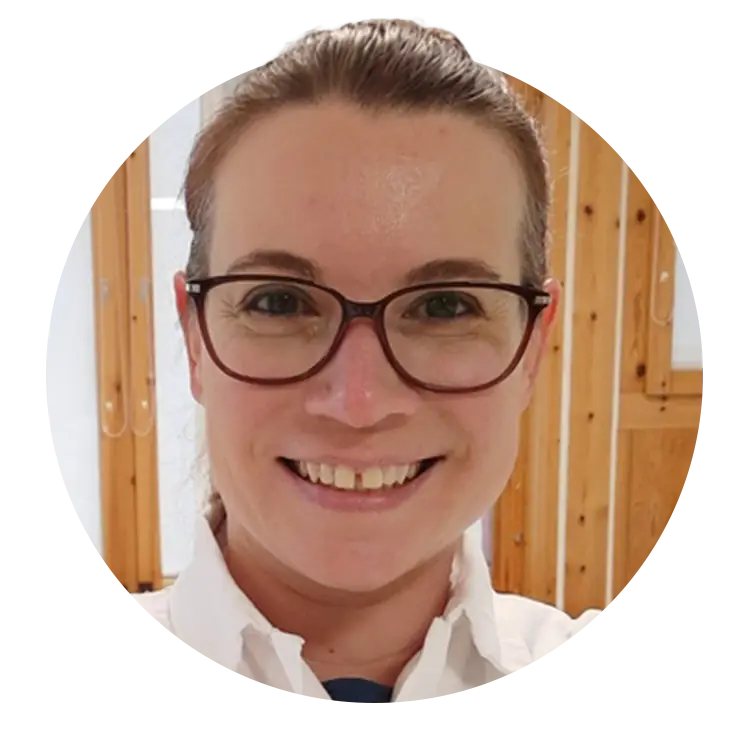
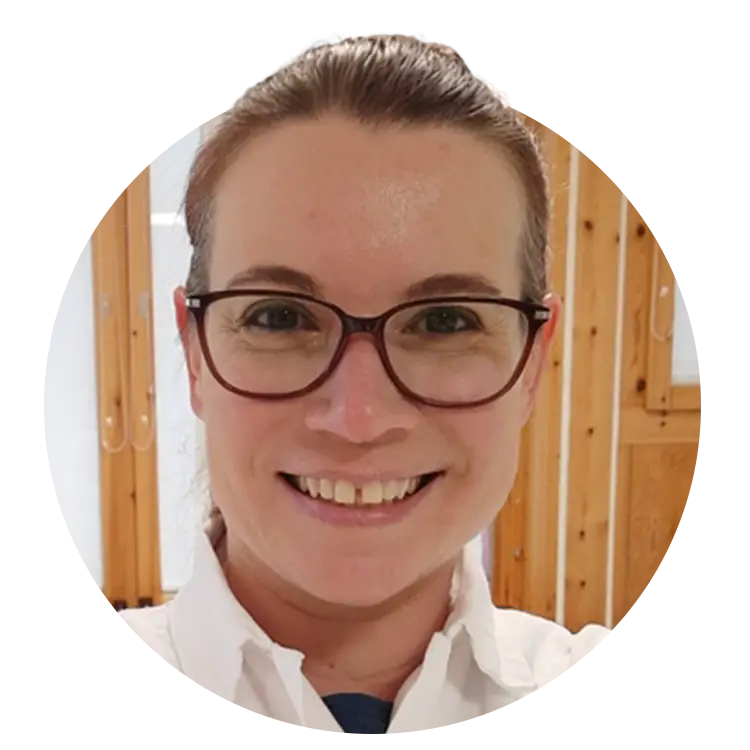
Updated contents at 20261103-141326

diff --git a/2704/index.html b/2704/index.html
@@ -167,7 +167,7 @@ RNA sequence analyses workflow</p>
 </div>
 <hr>
 <div class="small">
-<p>Updated: 03-Nov-2026 at 13:56 CET.</p>
+<p>Updated: 03-Nov-2026 at 14:12 CET.</p>
 </div>
 </section>
 </div>
